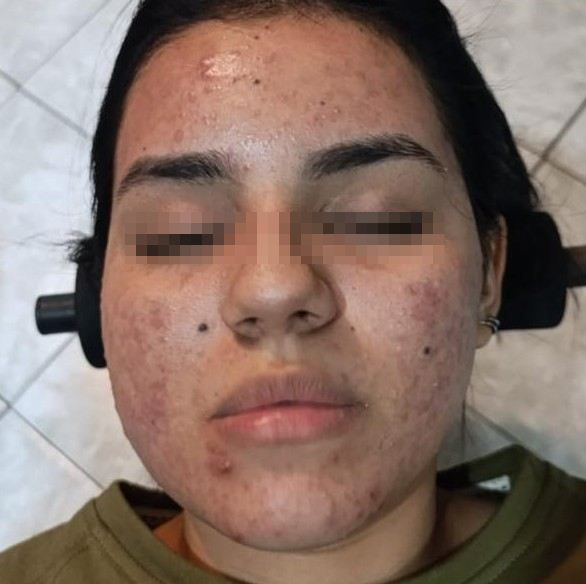
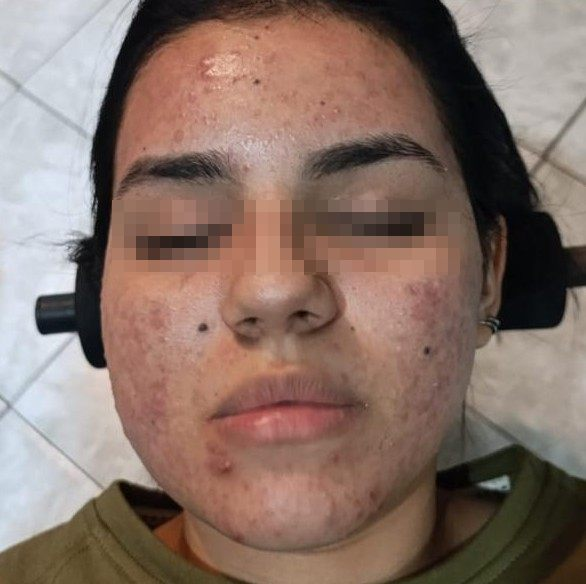
mejora en fotos y en la pagina casos

Changed region(s): [[0.215, 0.3699, 0.3993, 0.4623], [0.5529, 0.4007, 0.7372, 0.4315], [0.4915, 0.3699, 0.5222, 0.4623]]

diff --git a/casos.html b/casos.html
@@ -72,40 +72,33 @@
 
     <section class="section">
       <div class="container">
-        <div class="filters">
-          <button class="is-active" data-filter="todos">Todos</button>
-          <button data-filter="acne">Acné</button>
-          <button data-filter="manchas">Manchas</button>
-          <button data-filter="otros">Otros tratamientos</button>
-        </div>
-
         <!-- Para agregar un caso: guarda las fotos en assets/img/casos/ como caso-9-antes.jpg y caso-9-despues.jpg,
              y copia un <article class="case"> completo.
-             data-category debe ser: acne, manchas u otros (o agrega un botón nuevo arriba). -->
+             En case__tag va el tipo: Acné, Manchas, Cirugía, Estética, etc. -->
         <div class="cases">
-          <article class="case" data-category="acne">
+          <article class="case">
             <div class="case__pair">
-              <figure><img src="assets/img/casos/caso-1-antes.jpg" alt="Acné inflamatorio, antes del tratamiento" style="object-position: center 35%" loading="lazy"><figcaption>Antes</figcaption></figure>
-              <figure><img src="assets/img/casos/caso-1-despues.jpg" alt="Acné inflamatorio, después del tratamiento" style="object-position: center 35%" loading="lazy"><figcaption>Después</figcaption></figure>
+              <figure><img src="assets/img/casos/caso-1-antes.jpg" alt="Acné, antes del tratamiento" style="object-position: center 35%" loading="lazy"><figcaption>Antes</figcaption></figure>
+              <figure><img src="assets/img/casos/caso-1-despues.jpg" alt="Acné, después del tratamiento" style="object-position: center 35%" loading="lazy"><figcaption>Después</figcaption></figure>
             </div>
             <div class="case__body">
-              <p class="case__tag">Acné</p>
-              <h3>Acné inflamatorio</h3>
+              <p class="case__tag">Dermatología clínica</p>
+              <h3>Acné</h3>
               <p>[Tratamiento realizado y tiempo de evolución]</p>
             </div>
           </article>
-          <article class="case" data-category="otros">
+          <article class="case">
             <div class="case__pair">
-              <figure><img src="assets/img/casos/caso-2-antes.jpg" alt="[Confirmar: lesiones por daño solar], antes del tratamiento" style="object-position: center 35%" loading="lazy"><figcaption>Antes</figcaption></figure>
-              <figure><img src="assets/img/casos/caso-2-despues.jpg" alt="[Confirmar: lesiones por daño solar], después del tratamiento" style="object-position: center 35%" loading="lazy"><figcaption>Después</figcaption></figure>
+              <figure><img src="assets/img/casos/caso-2-antes.jpg" alt="Cirugía de tumor en la nariz, antes del tratamiento" style="object-position: center 35%" loading="lazy"><figcaption>Antes</figcaption></figure>
+              <figure><img src="assets/img/casos/caso-2-despues.jpg" alt="Cirugía de tumor en la nariz, después del tratamiento" style="object-position: center 35%" loading="lazy"><figcaption>Después</figcaption></figure>
             </div>
             <div class="case__body">
-              <p class="case__tag">Daño solar</p>
-              <h3>[Confirmar: lesiones por daño solar]</h3>
+              <p class="case__tag">Cirugía</p>
+              <h3>Cirugía de tumor en la nariz</h3>
               <p>[Tratamiento realizado y tiempo de evolución]</p>
             </div>
           </article>
-          <article class="case" data-category="acne">
+          <article class="case">
             <div class="case__pair">
               <figure><img src="assets/img/casos/caso-3-antes.jpg" alt="Acné juvenil, antes del tratamiento" style="object-position: center 40%" loading="lazy"><figcaption>Antes</figcaption></figure>
               <figure><img src="assets/img/casos/caso-3-despues.jpg" alt="Acné juvenil, después del tratamiento" style="object-position: center 40%" loading="lazy"><figcaption>Después</figcaption></figure>
@@ -116,7 +109,7 @@
               <p>[Tratamiento realizado y tiempo de evolución]</p>
             </div>
           </article>
-          <article class="case" data-category="acne">
+          <article class="case">
             <div class="case__pair">
               <figure><img src="assets/img/casos/caso-4-antes.jpg" alt="Acné y marcas en la mejilla, antes del tratamiento" style="object-position: center 35%" loading="lazy"><figcaption>Antes</figcaption></figure>
               <figure><img src="assets/img/casos/caso-4-despues.jpg" alt="Acné y marcas en la mejilla, después del tratamiento" style="object-position: center 35%" loading="lazy"><figcaption>Después</figcaption></figure>
@@ -127,29 +120,29 @@
               <p>[Tratamiento realizado y tiempo de evolución]</p>
             </div>
           </article>
-          <article class="case" data-category="otros">
+          <article class="case">
             <div class="case__pair">
-              <figure><img src="assets/img/casos/caso-5-antes.jpg" alt="[Confirmar: lesiones en la espalda], antes del tratamiento" style="object-position: center 40%" loading="lazy"><figcaption>Antes</figcaption></figure>
-              <figure><img src="assets/img/casos/caso-5-despues.jpg" alt="[Confirmar: lesiones en la espalda], después del tratamiento" style="object-position: center 40%" loading="lazy"><figcaption>Después</figcaption></figure>
+              <figure><img src="assets/img/casos/caso-5-antes.jpg" alt="Lesiones en la espalda, antes del tratamiento" style="object-position: center 40%" loading="lazy"><figcaption>Antes</figcaption></figure>
+              <figure><img src="assets/img/casos/caso-5-despues.jpg" alt="Lesiones en la espalda, después del tratamiento" style="object-position: center 40%" loading="lazy"><figcaption>Después</figcaption></figure>
             </div>
             <div class="case__body">
-              <p class="case__tag">Espalda</p>
-              <h3>[Confirmar: lesiones en la espalda]</h3>
+              <p class="case__tag">Dermatología clínica</p>
+              <h3>Lesiones en la espalda</h3>
               <p>[Tratamiento realizado y tiempo de evolución]</p>
             </div>
           </article>
-          <article class="case" data-category="otros">
+          <article class="case">
             <div class="case__pair">
-              <figure><img src="assets/img/casos/caso-6-antes.jpg" alt="[Confirmar: tipo de tratamiento], antes del tratamiento" style="object-position: center 40%" loading="lazy"><figcaption>Antes</figcaption></figure>
-              <figure><img src="assets/img/casos/caso-6-despues.jpg" alt="[Confirmar: tipo de tratamiento], después del tratamiento" style="object-position: center 40%" loading="lazy"><figcaption>Después</figcaption></figure>
+              <figure><img src="assets/img/casos/caso-6-antes.jpg" alt="Rinomodelación, antes del tratamiento" style="object-position: center 40%" loading="lazy"><figcaption>Antes</figcaption></figure>
+              <figure><img src="assets/img/casos/caso-6-despues.jpg" alt="Rinomodelación, después del tratamiento" style="object-position: center 40%" loading="lazy"><figcaption>Después</figcaption></figure>
             </div>
             <div class="case__body">
-              <p class="case__tag">[Confirmar]</p>
-              <h3>[Confirmar: tipo de tratamiento]</h3>
+              <p class="case__tag">Estética</p>
+              <h3>Rinomodelación</h3>
               <p>[Tratamiento realizado y tiempo de evolución]</p>
             </div>
           </article>
-          <article class="case" data-category="acne">
+          <article class="case">
             <div class="case__pair">
               <figure><img src="assets/img/casos/caso-7-antes.jpg" alt="Acné en la mejilla, antes del tratamiento" style="object-position: center 45%" loading="lazy"><figcaption>Antes</figcaption></figure>
               <figure><img src="assets/img/casos/caso-7-despues.jpg" alt="Acné en la mejilla, después del tratamiento" style="object-position: center 45%" loading="lazy"><figcaption>Después</figcaption></figure>
@@ -160,7 +153,7 @@
               <p>[Tratamiento realizado y tiempo de evolución]</p>
             </div>
           </article>
-          <article class="case" data-category="manchas">
+          <article class="case">
             <div class="case__pair">
               <figure><img src="assets/img/casos/caso-8-antes.jpg" alt="Melasma, antes del tratamiento" style="object-position: center 40%" loading="lazy"><figcaption>Antes</figcaption></figure>
               <figure><img src="assets/img/casos/caso-8-despues.jpg" alt="Melasma, después del tratamiento" style="object-position: center 40%" loading="lazy"><figcaption>Después</figcaption></figure>

diff --git a/script.js b/script.js
@@ -12,7 +12,6 @@ document.addEventListener("DOMContentLoaded", () => {
   setupActiveLink();
   setupReel();
   setupServiceNav();
-  setupCaseFilters();
   setYear();
 });
 
@@ -146,22 +145,6 @@ function setupServiceNav() {
   }, { rootMargin: "-45% 0px -50% 0px" });
 
   document.querySelectorAll(".service").forEach((s) => observer.observe(s));
-}
-
-/* ---------- Filtros de casos ---------- */
-function setupCaseFilters() {
-  const buttons = document.querySelectorAll(".filters button");
-  if (!buttons.length) return;
-
-  buttons.forEach((btn) => {
-    btn.addEventListener("click", () => {
-      buttons.forEach((b) => b.classList.toggle("is-active", b === btn));
-      const filter = btn.dataset.filter;
-      document.querySelectorAll(".case").forEach((c) => {
-        c.hidden = filter !== "todos" && c.dataset.category !== filter;
-      });
-    });
-  });
 }
 
 function setYear() {

diff --git a/styles.css b/styles.css
@@ -488,20 +488,6 @@ p  { margin: 0 0 1em; }
 .service--dark .treatments li { border-color: rgba(255, 255, 255, .16); }
 
 /* ---------- Página Casos ---------- */
-.filters { display: flex; flex-wrap: wrap; justify-content: center; gap: 8px; margin-bottom: 48px; }
-.filters button {
-  padding: 9px 20px;
-  font-family: inherit;
-  font-size: .95rem;
-  color: var(--ink);
-  border-radius: 999px;
-  border: 1px solid var(--line);
-  background: transparent;
-  cursor: pointer;
-}
-.filters button:hover { border-color: var(--caramel); }
-.filters button.is-active { background: var(--cacao); border-color: var(--cacao); color: #fff; }
-
 .cases { display: grid; grid-template-columns: repeat(2, minmax(0, 1fr)); gap: 28px; }
 .case { background: var(--surface); }
 .case[hidden] { display: none; }
